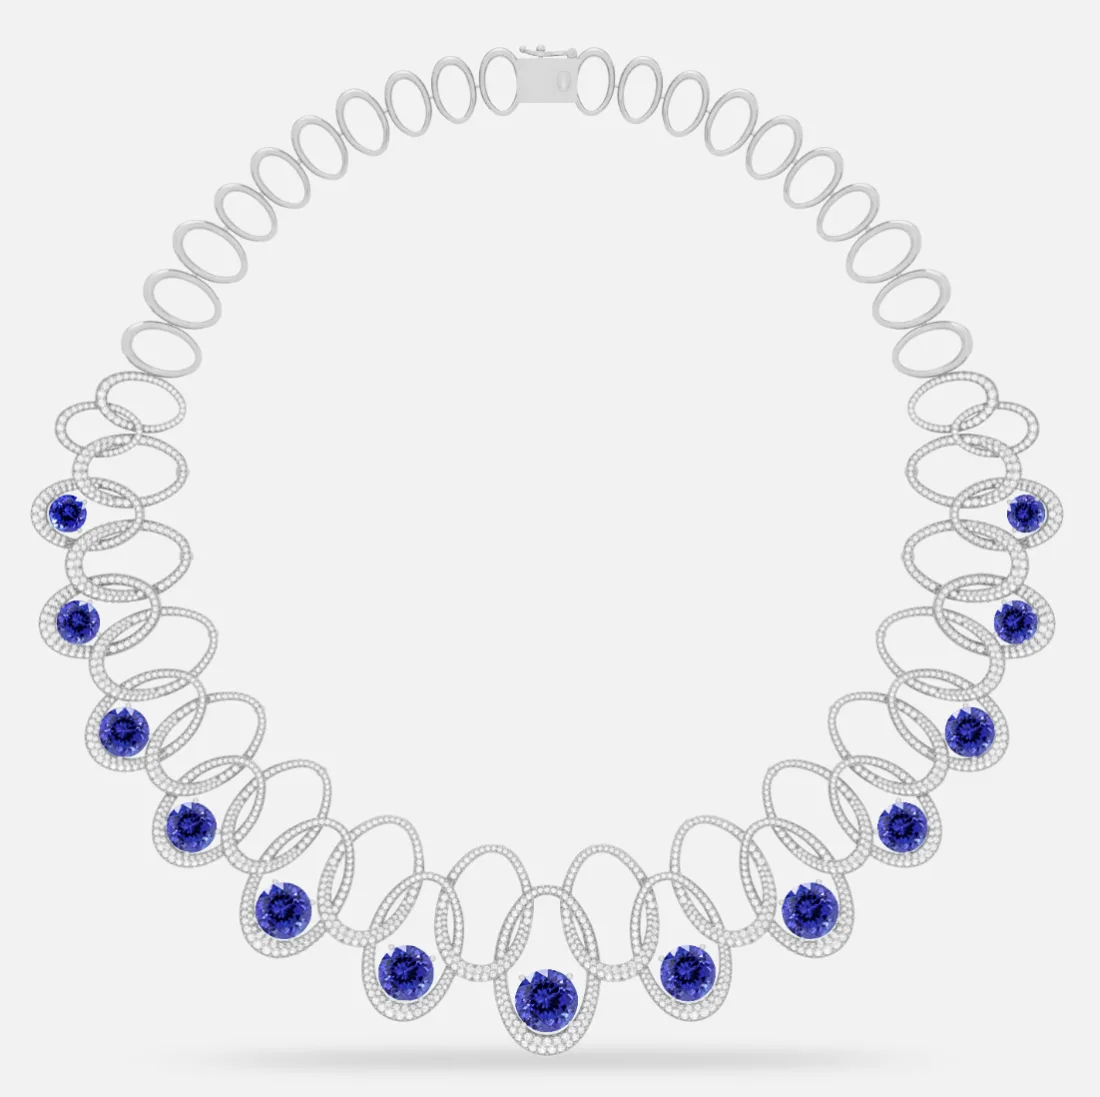
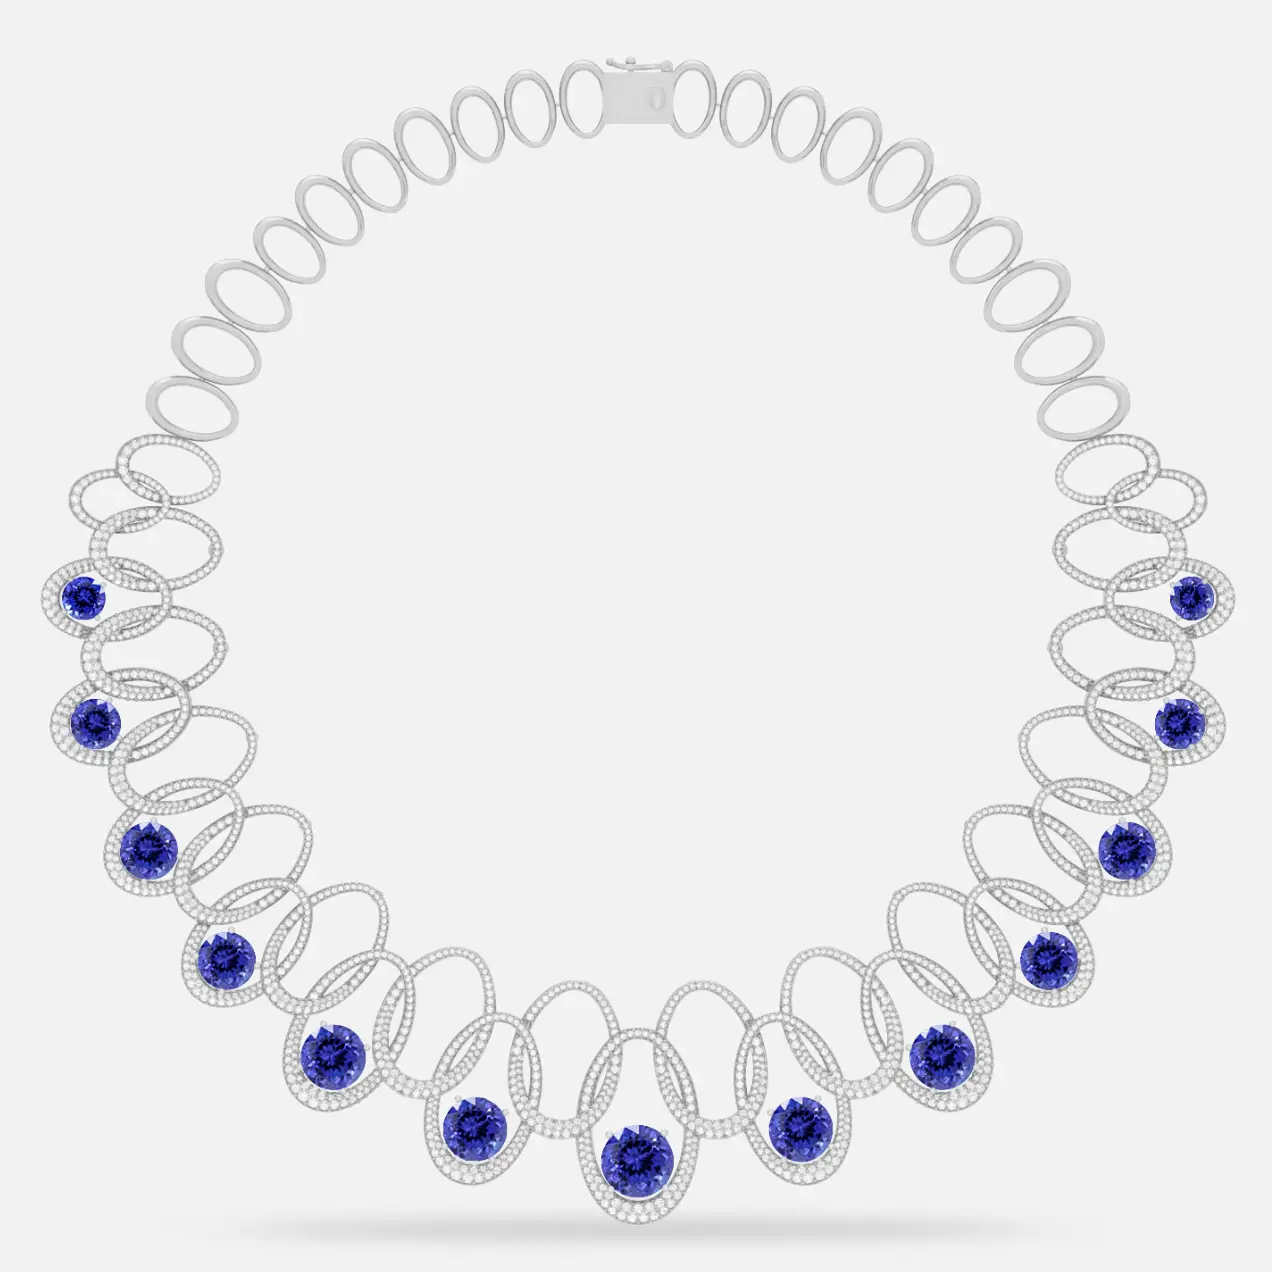
feat: add weaver product gallery and story section images

diff --git a/high-jewellery/app.js b/high-jewellery/app.js
@@ -88,15 +88,18 @@
   ];
 
   var STORY = [
-    { img: "interlink-1", h: "Chosen at the source",
+    { img: "story-half", h: "Chosen at the source",
       p: "Our cutters travel to the Merelani hills and buy rough at the pit, not "
        + "through a broker. Nothing enters the workshop unless one of us has held it." },
-    { img: "interlink-2", h: "Cut in our own workshop",
+    { img: "story-model1", h: "Cut in our own workshop",
       p: "Each stone is cut for colour rather than weight, which means losing "
        + "carats to keep the blue even from every angle. It is the slower way." },
-    { img: "alt-collar", h: "Finished by hand",
+    { img: "story-model2", h: "Finished by hand",
       p: "Settings are raised, pierced and polished at the bench by the same hand "
-       + "from start to finish, then worn for a day before it is allowed to leave." }
+       + "from start to finish, then worn for a day before it is allowed to leave." },
+    { img: "story-model3", h: "Worn with Elegance",
+      p: "Designed to be worn effortlessly and gracefully, complementing every occasion "
+       + "with a touch of unmatched sophistication." }
   ];
 
   var STAT_ICONS = {
@@ -158,6 +161,14 @@
   /* The design never filled the six PDP slots, so build a deterministic set:
      the product's own artwork first, then filler frames offset by its index. */
   function galleryFor(p) {
+    if (p.id === "weaver") {
+      return [
+        IMG + "weaver.webp",
+        IMG + "weaver-detail.webp",
+        IMG + "weaver-half.webp",
+        IMG + "weaver-model.webp"
+      ];
+    }
     if (p.id === "the-crown" || p.isGemstone) {
       return [
         IMG + "the-crown.webp",
